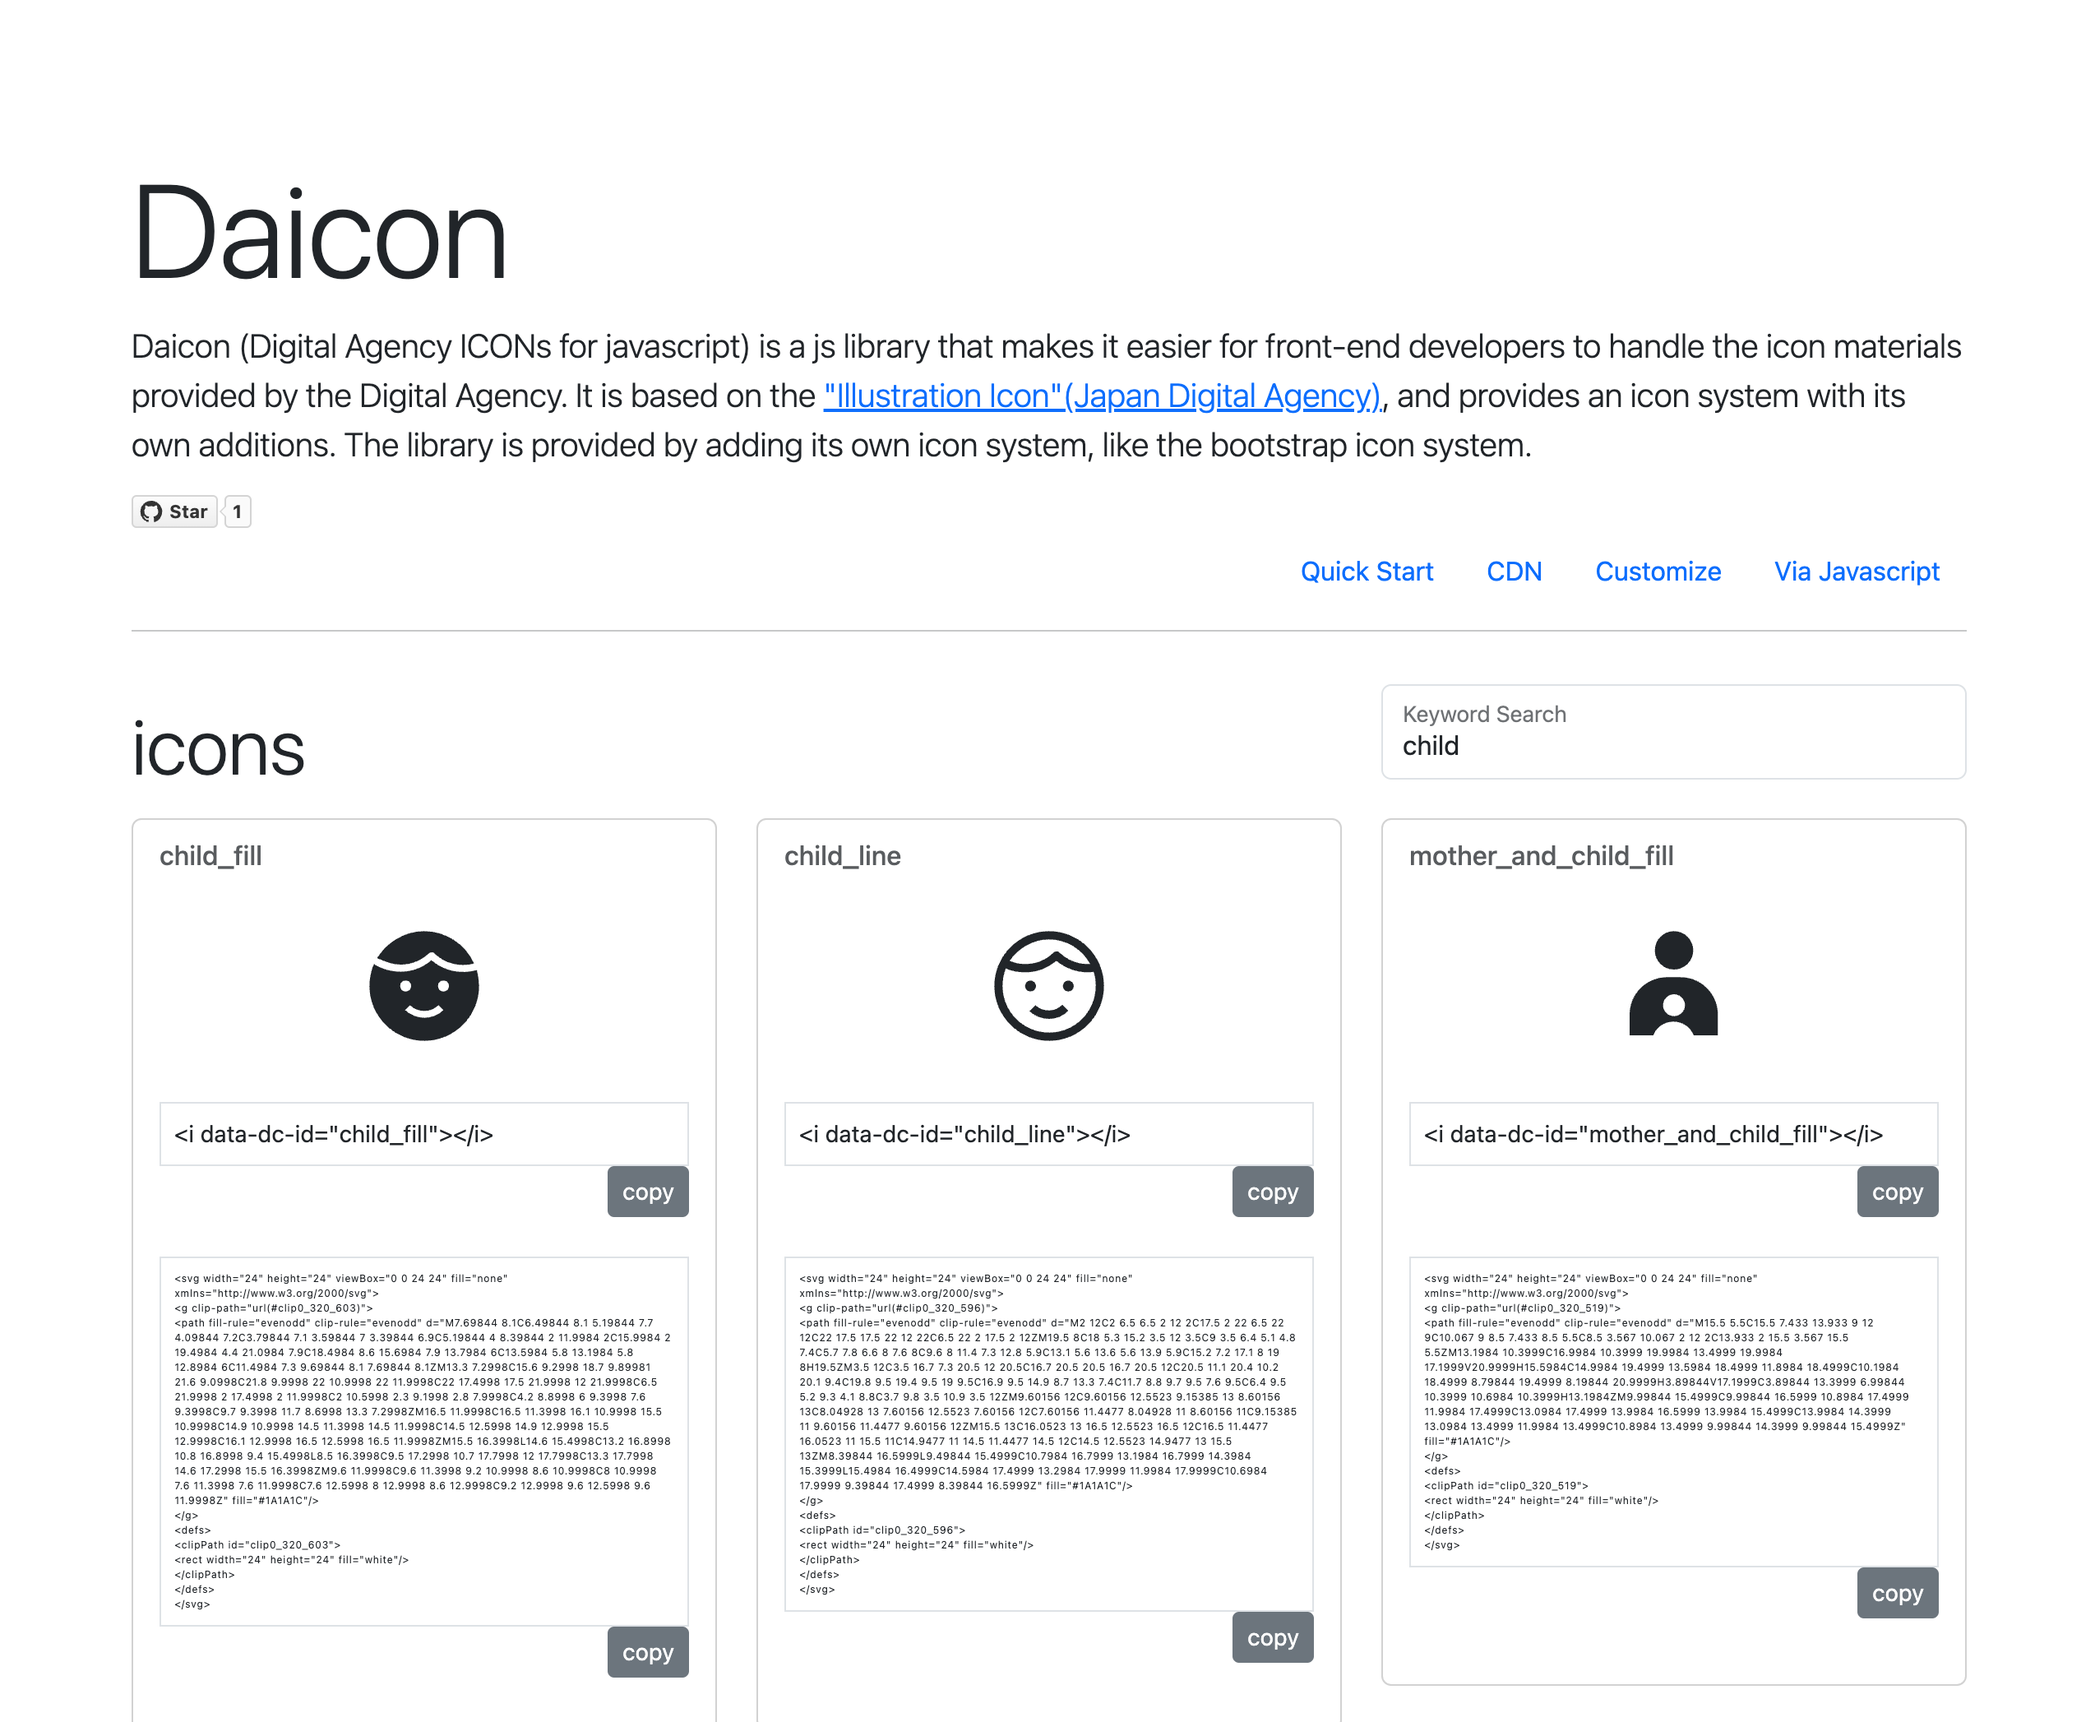
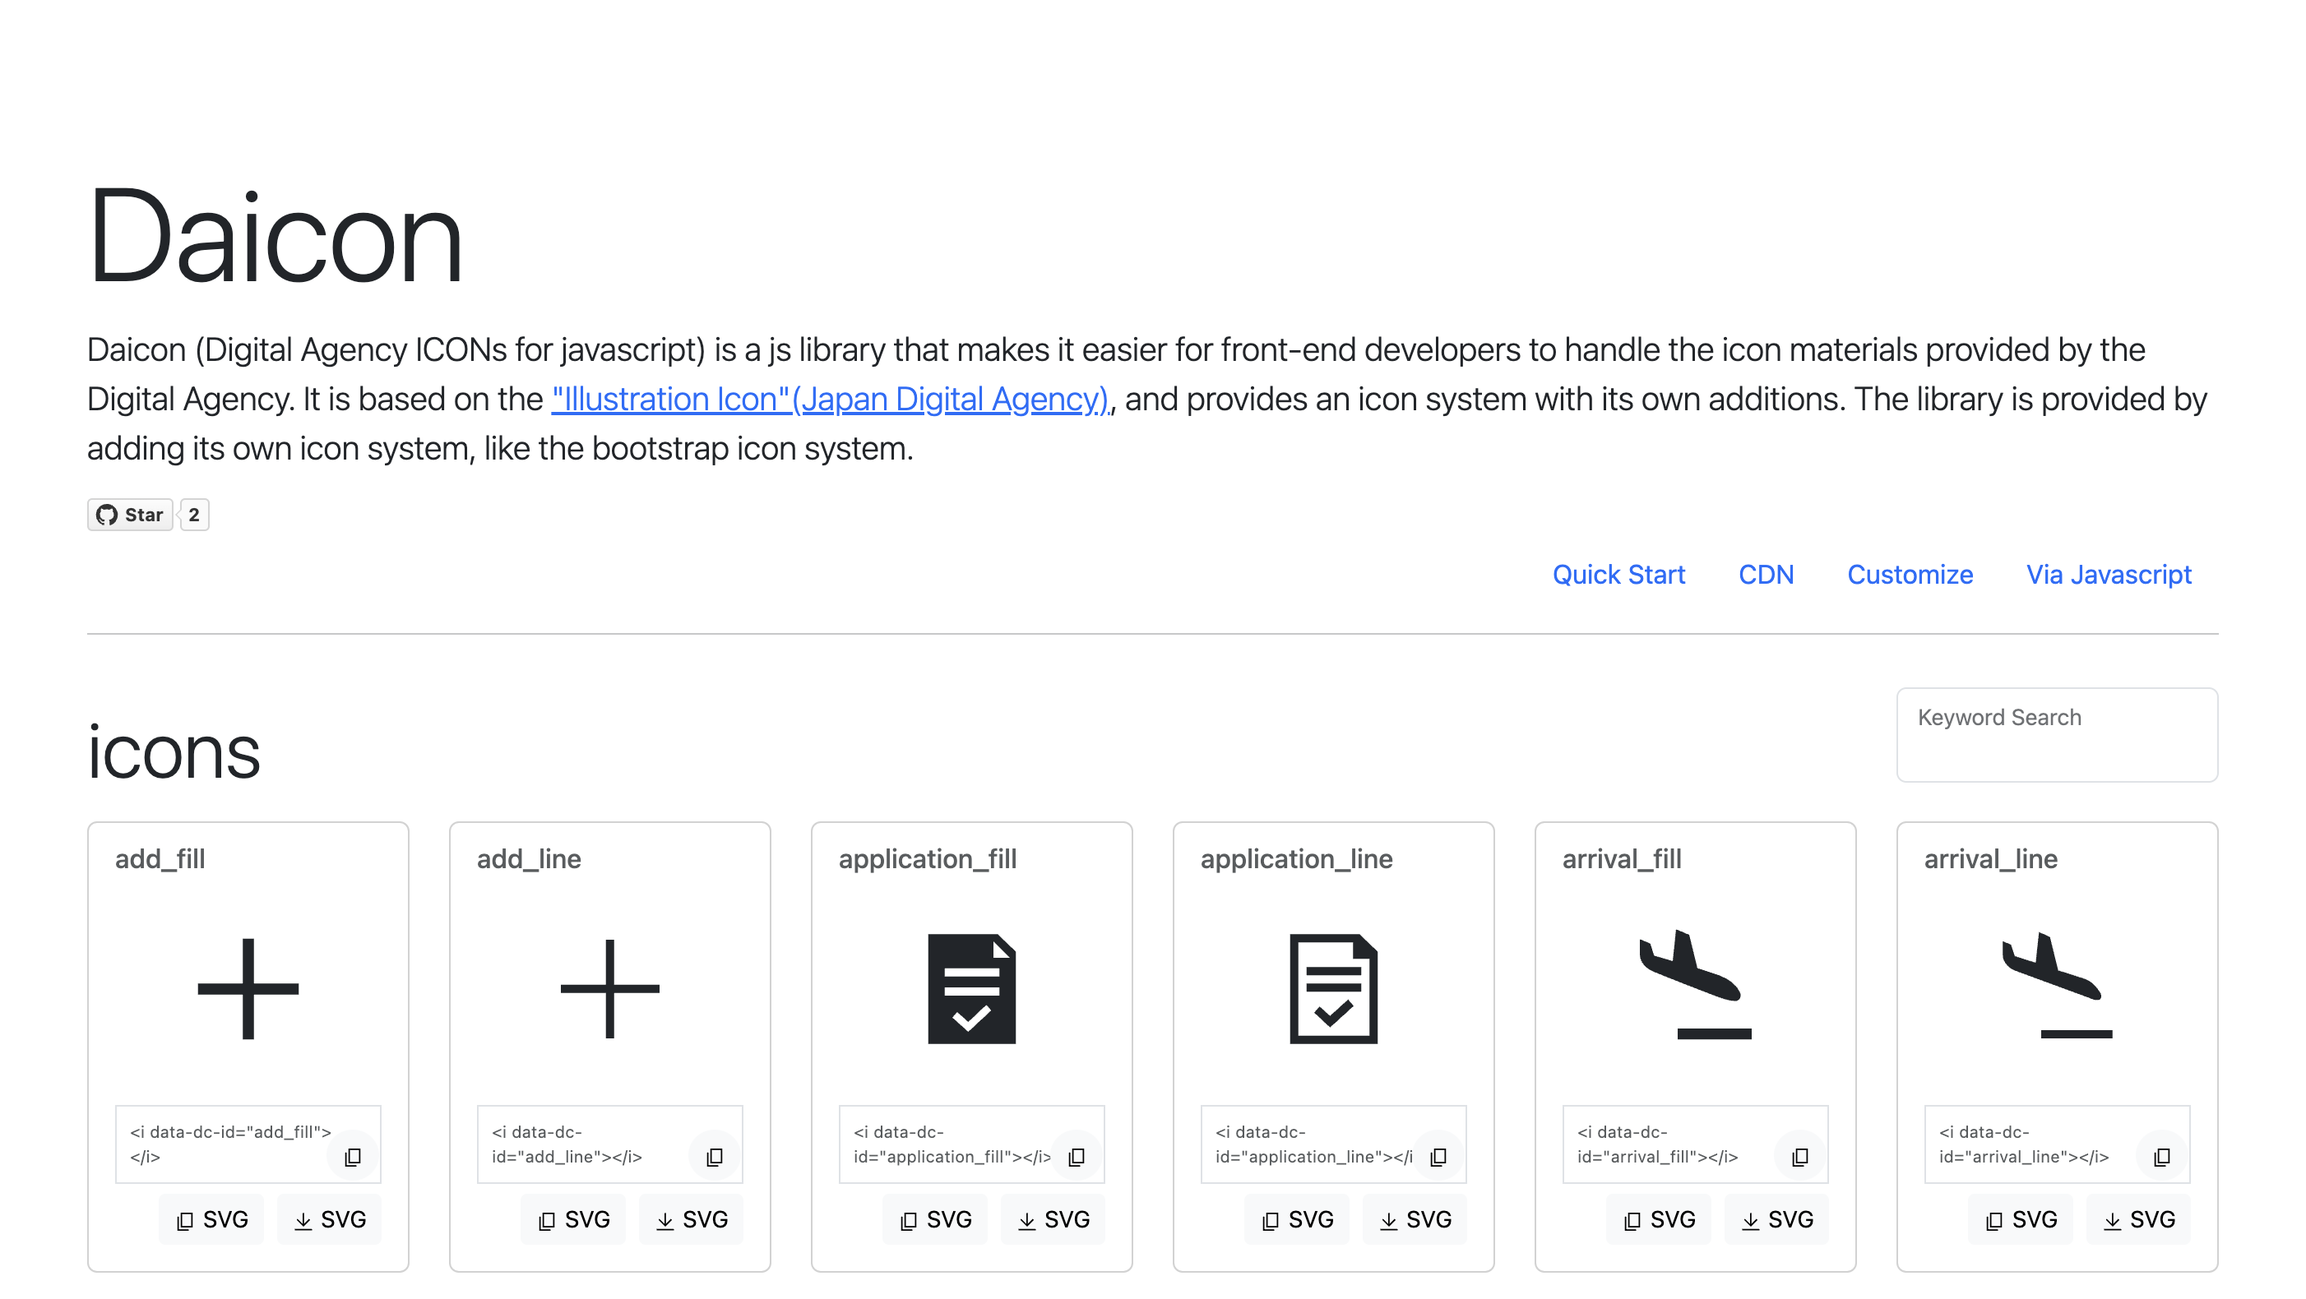
png replace, minor bug fix

diff --git a/index.html b/index.html
@@ -60,8 +60,7 @@
             </div>
             <div class="col-sm-6 col-md-4 col-lg-3 col-xxl-2 mb-2">
                 <form class="form-floating">
-                    <input type="search" class="form-control" id="floatingInputValue" placeholder="name@example.com"
-                        value="" oninput="search(this);">
+                    <input type="search" class="form-control" id="floatingInputValue" value="" oninput="search(this);">
                     <label for="floatingInputValue">Keyword Search</label>
                 </form>
             </div>

diff --git a/index.js b/index.js
@@ -27,7 +27,7 @@ function createDaiconElements(json) {
             button1.id = 'btn-copy';
 
 
-            div_grid = buildElement('div', '', 'd-grid  gap-2 d-md-flex justify-content-end', '', div2);
+            div_grid = buildElement('div', '', 'd-grid  gap-2 d-md-flex justify-content-md-end', '', div2);
             {
                 let button = buildElement('button', '<i data-dc-id="copy_line"></i> SVG', 'btn btn-light btn-sm', '', div_grid);
                 button.value = p.html;
